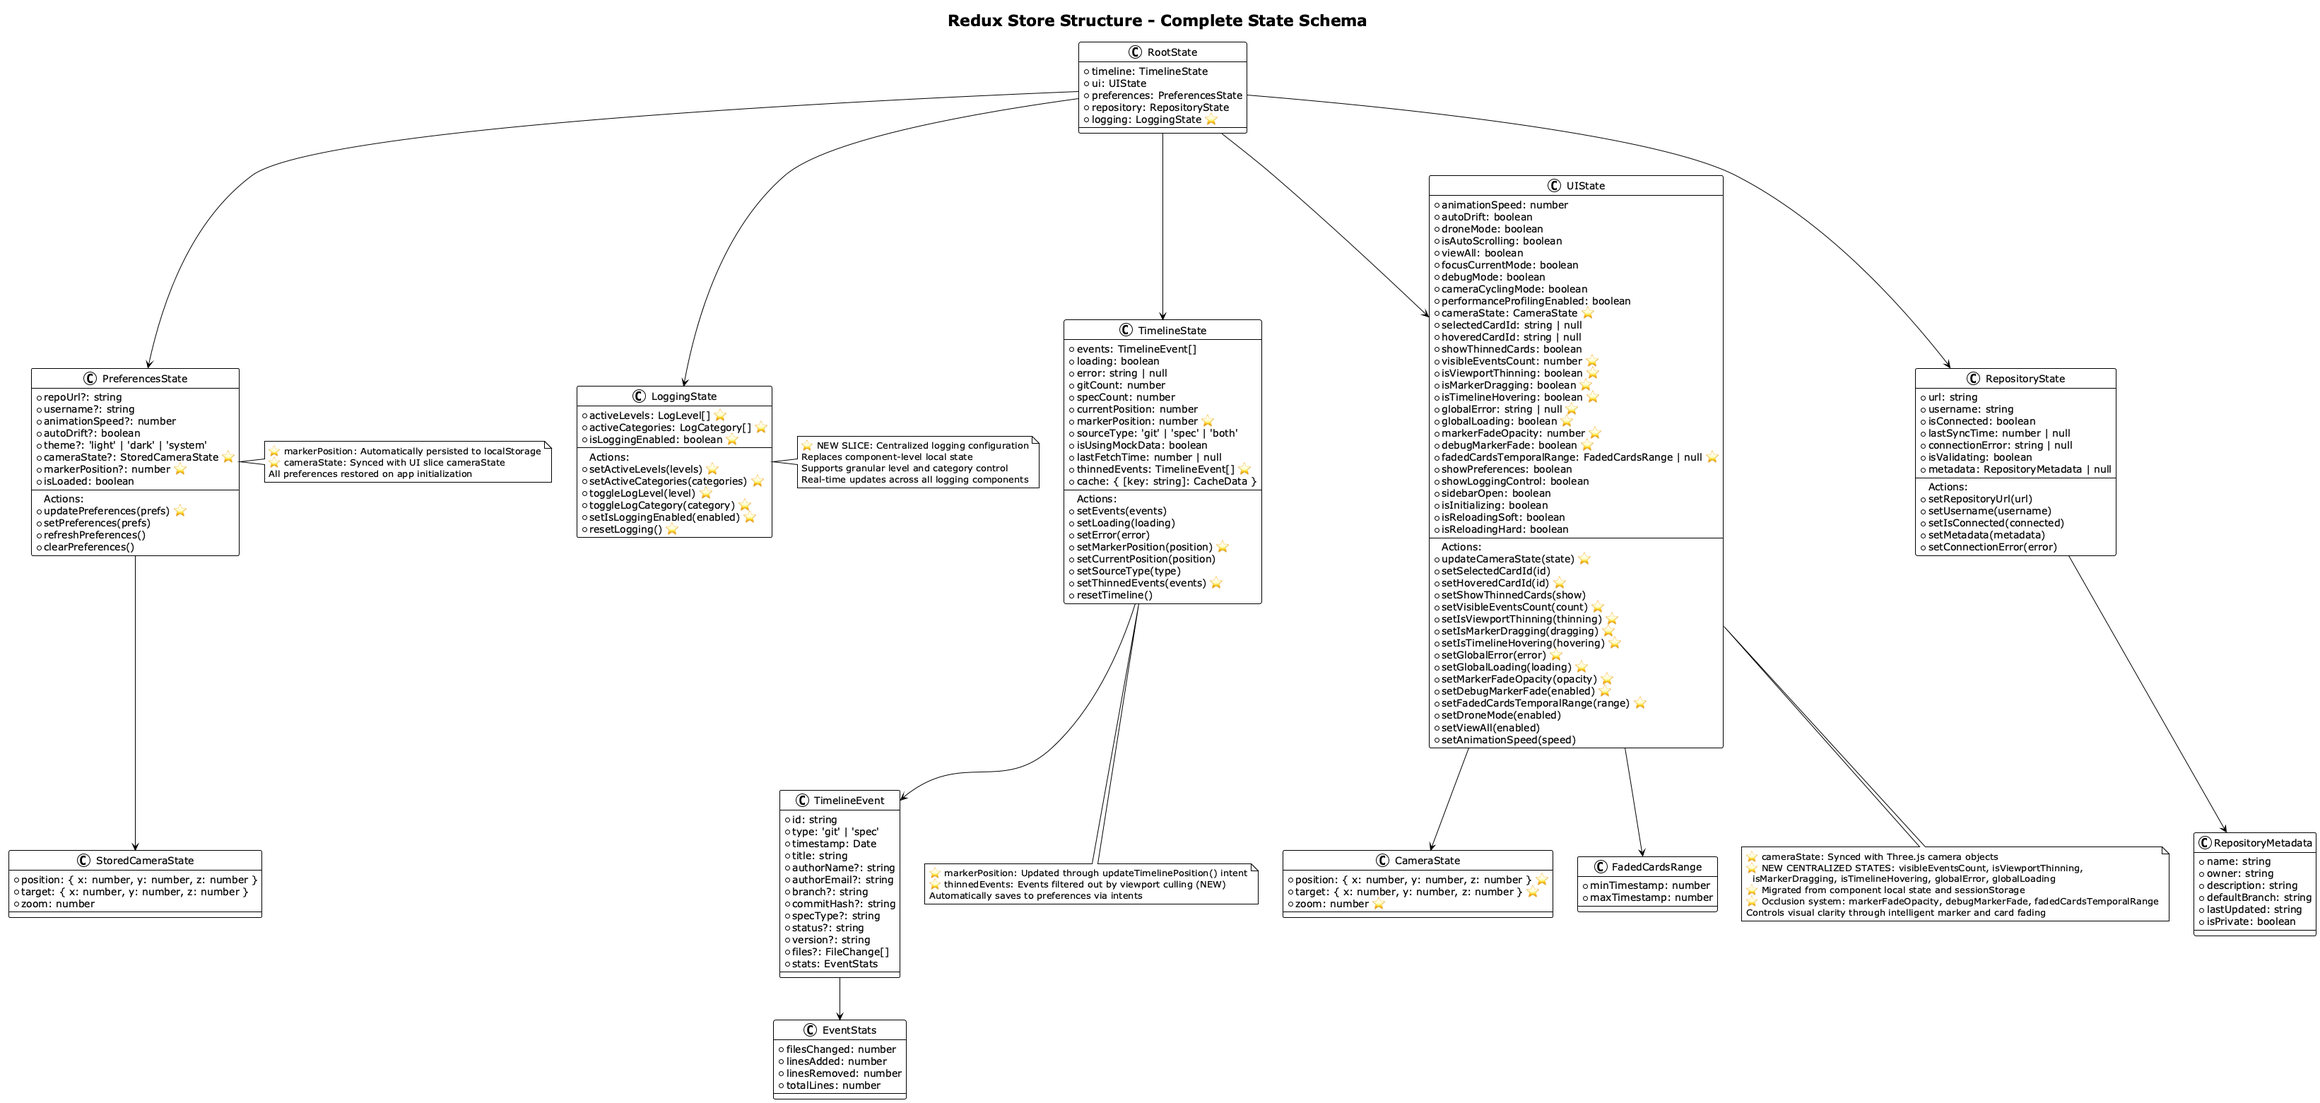
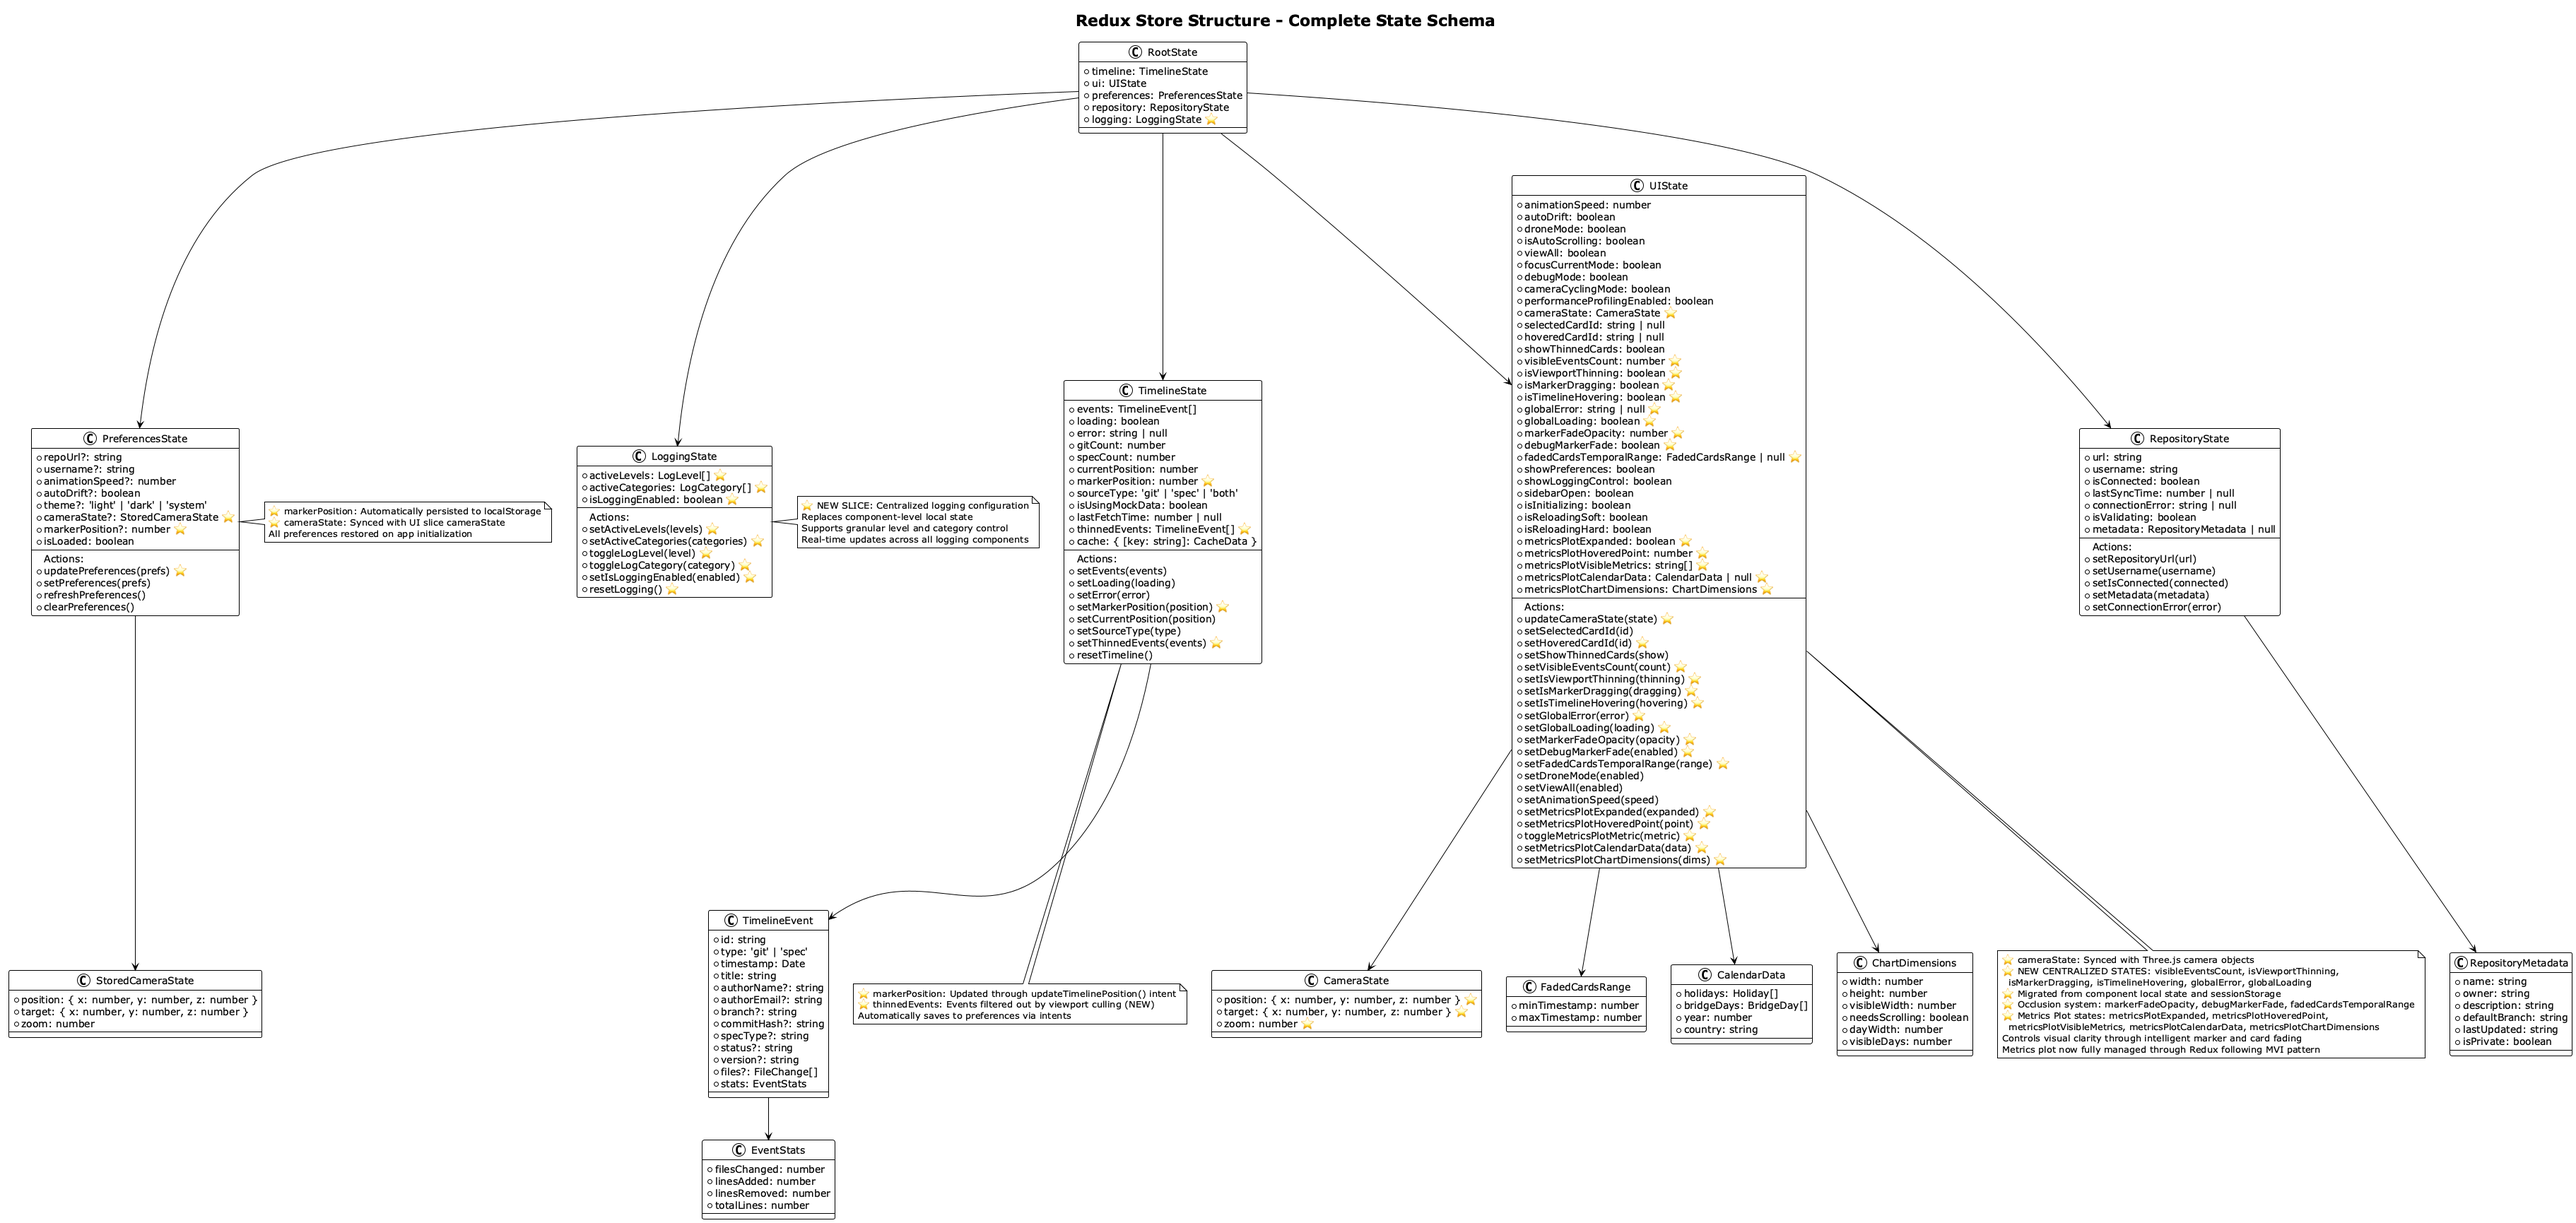
docs: updated docu after refactoring (metrics states -> redux)

diff --git a/src/components/metrics/HorizontalMetricsPlot.tsx b/src/components/metrics/HorizontalMetricsPlot.tsx
@@ -1,7 +1,7 @@
 /**
  * Horizontal metrics plot component showing code evolution over time
  */
-import React, { useMemo, useRef, useEffect, useState } from 'react';
+import React, { useMemo, useRef, useEffect } from 'react';
 import type { TimelineEvent } from '../../data/types/TimelineEvent';
 import {
   calculateCodeMetrics,
@@ -9,14 +9,17 @@ import {
   positionToTimestamp,
 } from '../../utils/metrics/codeMetrics';
 import { metricsConfig } from '../../config';
-import { getCachedCalendarData, type CalendarData } from '../../services/calendarService';
-import { getCountryForTimezone, DEFAULT_TIMEZONE } from '../../config/timezones';
+import { DEFAULT_TIMEZONE } from '../../config/timezones';
 import { useAppSelector, useAppDispatch } from '../../store';
 import { 
   setMetricsPlotExpanded, 
   setMetricsPlotHoveredPoint, 
   toggleMetricsPlotMetric 
 } from '../../store/slices/uiSlice';
+import { 
+  fetchMetricsPlotCalendarData,
+  updateMetricsPlotChartDimensions
+} from '../../store/intents/metricsPlotIntents';
 import { Logger } from '../../utils/logging/Logger';
 
 interface HorizontalMetricsPlotProps {
@@ -49,7 +52,8 @@ export const HorizontalMetricsPlot: React.FC<HorizontalMetricsPlotProps> = ({
   const isExpanded = useAppSelector(state => state.ui.metricsPlotExpanded);
   const hoveredPoint = useAppSelector(state => state.ui.metricsPlotHoveredPoint);
   
-  const [calendarData, setCalendarData] = useState<CalendarData | null>(null);
+  // Get calendar data from Redux
+  const calendarData = useAppSelector(state => state.ui.metricsPlotCalendarData);
 
   // Get timezone and calendar preferences
   const timezone = useAppSelector(state => state.preferences.timezone) || DEFAULT_TIMEZONE;
@@ -58,59 +62,8 @@ export const HorizontalMetricsPlot: React.FC<HorizontalMetricsPlotProps> = ({
 
   // Fetch calendar data when timezone, preferences, or date range changes
   useEffect(() => {
-    if (!startDate || !endDate || (!showHolidays && !showBridgeDays)) {
-      setCalendarData(null);
-      return;
-    }
-
-    const fetchCalendarData = async () => {
-      try {
-        const country = getCountryForTimezone(timezone);
-        if (!country) return;
-
-        const startYear = startDate.getFullYear();
-        const endYear = endDate.getFullYear();
-
-        // Fetch calendar data for all years in the range
-        const calendarPromises = [];
-        for (let year = startYear; year <= endYear; year++) {
-          calendarPromises.push(getCachedCalendarData(year, country, timezone));
-        }
-
-        const calendarResults = await Promise.all(calendarPromises);
-
-        // Combine all calendar data
-        const combinedCalendarData: CalendarData = {
-          holidays: calendarResults.flatMap(data => data.holidays),
-          bridgeDays: calendarResults.flatMap(data => data.bridgeDays),
-          year: startYear,
-          country: country
-        };
-
-        // Debug logging
-        Logger.info(Logger.Categories.DATA, '🎯 CALENDAR DATA CHECK:', {
-          holidays: combinedCalendarData.holidays.length,
-          bridgeDays: combinedCalendarData.bridgeDays.length,
-          holidayDates: combinedCalendarData.holidays.map(h => ({
-            date: h.date,
-            name: h.name,
-            dayOfWeek: new Date(h.date + 'T00:00:00Z').toLocaleDateString('en-US', { weekday: 'short' })
-          })),
-          bridgeDayDates: combinedCalendarData.bridgeDays.map(b => ({
-            date: b.date,
-            dayOfWeek: new Date(b.date + 'T00:00:00Z').toLocaleDateString('en-US', { weekday: 'short' })
-          }))
-        });
-
-        setCalendarData(combinedCalendarData);
-      } catch (error) {
-        Logger.warn(Logger.Categories.DATA, 'Failed to fetch calendar data:', error);
-        setCalendarData(null);
-      }
-    };
-
-    fetchCalendarData();
-  }, [timezone, startDate, endDate, showHolidays, showBridgeDays]);
+    dispatch(fetchMetricsPlotCalendarData(startDate, endDate));
+  }, [dispatch, startDate, endDate, timezone, showHolidays, showBridgeDays]);
 
   // Calculate metrics from events
   const metricsPoints = useMemo(() => {
@@ -168,19 +121,11 @@ export const HorizontalMetricsPlot: React.FC<HorizontalMetricsPlotProps> = ({
     return data;
   }, [metricsPoints]);
 
-  // SVG chart dimensions - use full available width
+  // SVG chart dimensions from Redux
   const { chart } = metricsConfig;
-  const [chartDimensions, setChartDimensions] = useState({
-    width: chart.width,
-    height: chart.height,
-    visibleWidth: chart.width,
-    needsScrolling: false,
-    dayWidth: 0,
-    visibleDays: 0
-  });
+  const chartDimensions = useAppSelector(state => state.ui.metricsPlotChartDimensions);
 
   // Constants for scrolling behavior
-  const MIN_DAY_WIDTH = 16; // Minimum width per day for readability
   const SCROLL_EDGE_THRESHOLD = 0.25; // Scroll when marker is 25% from edge
 
   // Update chart dimensions based on container size
@@ -188,47 +133,14 @@ export const HorizontalMetricsPlot: React.FC<HorizontalMetricsPlotProps> = ({
     const updateDimensions = () => {
       if (containerRef.current && chartData && chartData.length > 0) {
         const containerWidth = containerRef.current.offsetWidth;
-        const availableWidth = containerWidth - 16; // Minimal padding
-        const marginWidth = chart.margin.left + chart.margin.right;
-        const innerAvailableWidth = availableWidth - marginWidth;
-        
-        // Calculate actual day width if we show all days
-        const actualDayWidth = innerAvailableWidth / chartData.length;
-        
-        // Check if we need scrolling
-        const needsScrolling = actualDayWidth < MIN_DAY_WIDTH;
-        
-        if (needsScrolling) {
-          // Calculate how many days we can show with minimum width
-          const visibleDays = Math.floor(innerAvailableWidth / MIN_DAY_WIDTH);
-          const totalWidth = chartData.length * MIN_DAY_WIDTH + marginWidth;
-          
-          setChartDimensions({
-            width: totalWidth,
-            height: chart.height,
-            visibleWidth: availableWidth,
-            needsScrolling: true,
-            dayWidth: MIN_DAY_WIDTH,
-            visibleDays: visibleDays
-          });
-        } else {
-          // Show all days without scrolling
-          setChartDimensions({
-            width: availableWidth,
-            height: chart.height,
-            visibleWidth: availableWidth,
-            needsScrolling: false,
-            dayWidth: actualDayWidth,
-            visibleDays: chartData.length
-          });
-        }
+        dispatch(updateMetricsPlotChartDimensions(containerWidth, chartData.length));
       }
     };
 
     updateDimensions();
     window.addEventListener('resize', updateDimensions);
     return () => window.removeEventListener('resize', updateDimensions);
-  }, [chart.height, chart.margin, chartData]);
+  }, [dispatch, chartData]);
 
   // Debug logging after dimensions are calculated
   useEffect(() => {

diff --git a/src/store/intents/metricsPlotIntents.ts b/src/store/intents/metricsPlotIntents.ts
@@ -1,0 +1,118 @@
+import { AppDispatch, RootState } from '../index';
+import { 
+  setMetricsPlotCalendarData, 
+  setMetricsPlotChartDimensions 
+} from '../slices/uiSlice';
+import { getCachedCalendarData, type CalendarData } from '../../services/calendarService';
+import { getCountryForTimezone, DEFAULT_TIMEZONE } from '../../config/timezones';
+import { Logger } from '../../utils/logging/Logger';
+import { metricsConfig } from '../../config';
+
+/**
+ * Fetches calendar data for the metrics plot based on date range and timezone
+ */
+export const fetchMetricsPlotCalendarData =
+  (startDate: Date | undefined, endDate: Date | undefined) =>
+  async (dispatch: AppDispatch, getState: () => RootState) => {
+    const state = getState();
+    const timezone = state.preferences.timezone || DEFAULT_TIMEZONE;
+    const showHolidays = state.preferences.showHolidays ?? true;
+    const showBridgeDays = state.preferences.showBridgeDays ?? true;
+
+    if (!startDate || !endDate || (!showHolidays && !showBridgeDays)) {
+      dispatch(setMetricsPlotCalendarData(null));
+      return;
+    }
+
+    try {
+      const country = getCountryForTimezone(timezone);
+      if (!country) {
+        dispatch(setMetricsPlotCalendarData(null));
+        return;
+      }
+
+      const startYear = startDate.getFullYear();
+      const endYear = endDate.getFullYear();
+
+      // Fetch calendar data for all years in the range
+      const calendarPromises = [];
+      for (let year = startYear; year <= endYear; year++) {
+        calendarPromises.push(getCachedCalendarData(year, country, timezone));
+      }
+
+      const calendarResults = await Promise.all(calendarPromises);
+
+      // Combine all calendar data
+      const combinedCalendarData: CalendarData = {
+        holidays: calendarResults.flatMap(data => data.holidays),
+        bridgeDays: calendarResults.flatMap(data => data.bridgeDays),
+        year: startYear,
+        country: country
+      };
+
+      // Debug logging
+      Logger.info(Logger.Categories.DATA, '🎯 CALENDAR DATA CHECK:', {
+        holidays: combinedCalendarData.holidays.length,
+        bridgeDays: combinedCalendarData.bridgeDays.length,
+        holidayDates: combinedCalendarData.holidays.map(h => ({
+          date: h.date,
+          name: h.name,
+          dayOfWeek: new Date(h.date + 'T00:00:00Z').toLocaleDateString('en-US', { weekday: 'short' })
+        })),
+        bridgeDayDates: combinedCalendarData.bridgeDays.map(b => ({
+          date: b.date,
+          dayOfWeek: new Date(b.date + 'T00:00:00Z').toLocaleDateString('en-US', { weekday: 'short' })
+        }))
+      });
+
+      dispatch(setMetricsPlotCalendarData(combinedCalendarData));
+    } catch (error) {
+      Logger.warn(Logger.Categories.DATA, 'Failed to fetch calendar data:', error);
+      dispatch(setMetricsPlotCalendarData(null));
+    }
+  };
+
+/**
+ * Updates chart dimensions based on container size and data
+ */
+export const updateMetricsPlotChartDimensions =
+  (containerWidth: number, dataLength: number) =>
+  (dispatch: AppDispatch) => {
+    const { chart } = metricsConfig;
+    const MIN_DAY_WIDTH = 16; // Minimum width per day for readability
+    
+    const availableWidth = containerWidth - 16; // Minimal padding
+    const marginWidth = chart.margin.left + chart.margin.right;
+    const innerAvailableWidth = availableWidth - marginWidth;
+    
+    // Calculate actual day width if we show all days
+    const actualDayWidth = innerAvailableWidth / dataLength;
+    
+    // Check if we need scrolling
+    const needsScrolling = actualDayWidth < MIN_DAY_WIDTH;
+    
+    if (needsScrolling) {
+      // Calculate how many days we can show with minimum width
+      const visibleDays = Math.floor(innerAvailableWidth / MIN_DAY_WIDTH);
+      const totalWidth = dataLength * MIN_DAY_WIDTH + marginWidth;
+      
+      dispatch(setMetricsPlotChartDimensions({
+        width: totalWidth,
+        height: chart.height,
+        visibleWidth: availableWidth,
+        needsScrolling: true,
+        dayWidth: MIN_DAY_WIDTH,
+        visibleDays: visibleDays
+      }));
+    } else {
+      // Show all days without scrolling
+      dispatch(setMetricsPlotChartDimensions({
+        width: availableWidth,
+        height: chart.height,
+        visibleWidth: availableWidth,
+        needsScrolling: false,
+        dayWidth: actualDayWidth,
+        visibleDays: dataLength
+      }));
+    }
+  };

diff --git a/src/store/slices/uiSlice.ts b/src/store/slices/uiSlice.ts
@@ -64,6 +64,20 @@ interface UIState {
   metricsPlotExpanded: boolean;
   metricsPlotHoveredPoint: number;
   metricsPlotVisibleMetrics: string[];
+  metricsPlotCalendarData: {
+    holidays: Array<{ date: string; name: string }>;
+    bridgeDays: Array<{ date: string; name: string }>;
+    year: number;
+    country: string;
+  } | null;
+  metricsPlotChartDimensions: {
+    width: number;
+    height: number;
+    visibleWidth: number;
+    needsScrolling: boolean;
+    dayWidth: number;
+    visibleDays: number;
+  };
 }
 
 const initialState: UIState = {
@@ -102,6 +116,15 @@ const initialState: UIState = {
   metricsPlotExpanded: false,
   metricsPlotHoveredPoint: -1,
   metricsPlotVisibleMetrics: ['linesOfCode', 'totalFiles', 'commitCount'],
+  metricsPlotCalendarData: null,
+  metricsPlotChartDimensions: {
+    width: 1200,
+    height: 180,
+    visibleWidth: 1200,
+    needsScrolling: false,
+    dayWidth: 0,
+    visibleDays: 0
+  },
 };
 
 const uiSlice = createSlice({
@@ -226,6 +249,12 @@ const uiSlice = createSlice({
         state.metricsPlotVisibleMetrics = [...currentMetrics, metric];
       }
     },
+    setMetricsPlotCalendarData: (state, action: PayloadAction<UIState['metricsPlotCalendarData']>) => {
+      state.metricsPlotCalendarData = action.payload;
+    },
+    setMetricsPlotChartDimensions: (state, action: PayloadAction<UIState['metricsPlotChartDimensions']>) => {
+      state.metricsPlotChartDimensions = action.payload;
+    },
   },
 });
 
@@ -264,6 +293,8 @@ export const {
   setMetricsPlotHoveredPoint,
   setMetricsPlotVisibleMetrics,
   toggleMetricsPlotMetric,
+  setMetricsPlotCalendarData,
+  setMetricsPlotChartDimensions,
 } = uiSlice.actions;
 
 export default uiSlice.reducer;

diff --git a/CLAUDE.md b/CLAUDE.md
@@ -92,6 +92,11 @@ This is a 3D timeline visualization application built with **MVI (Model-View-Int
 - Marker position persistence across app reloads
 - Global card interaction system prevents conflicts
 
+**Metrics Plot State Management:**
+- Calendar data (holidays/bridge days) stored in Redux
+- Chart dimensions and scrolling state managed centrally
+- All local React states moved to Redux following MVI pattern
+
 **Animation System:**
 - Timeline marker and camera state automatically persist to localStorage
 - Multiple camera modes: manual, view-all, focus, drone mode
@@ -120,11 +125,13 @@ This is a 3D timeline visualization application built with **MVI (Model-View-Int
 - `src/store/index.ts` - Store configuration and typed hooks
 - `src/store/intents/uiIntents.ts` - User interaction handling
 - `src/store/intents/timelineIntents.ts` - Data fetching logic
+- `src/store/intents/metricsPlotIntents.ts` - Metrics plot state management
 
 **Main Components:**
 - `src/components/TimelineVisualization.tsx` - Connects Redux to 3D visualization
 - `src/components/three/TimelineScene.tsx` - Three.js scene setup and coordination
 - `src/components/three/TimelineCamera.tsx` - Complex camera state management
+- `src/components/metrics/HorizontalMetricsPlot.tsx` - Metrics visualization with Redux state
 
 **Critical Systems:**
 - `src/services/storage.ts` - Preference persistence (camera, marker position)

diff --git a/README.md b/README.md
@@ -19,6 +19,9 @@ A sophisticated 3D timeline visualization application that transforms git reposi
 - **Activity Patterns**: Visualize periods of development activity and inactivity
 - **Expandable Interface**: Compact view with expandable detailed metrics display
 - **Interactive Filtering**: Toggle individual metrics (LOC, Files, Commits) on/off
+- **Holiday & Bridge Day Markers**: Visual indicators for public holidays and bridge days
+- **Scrollable Chart**: Automatic horizontal scrolling for large datasets
+- **Redux State Management**: All metrics plot state centrally managed following MVI architecture
 
 ### 🎮 Interactive Controls
 - **Timeline Navigation**: Click-to-move timeline marker with smooth animations
